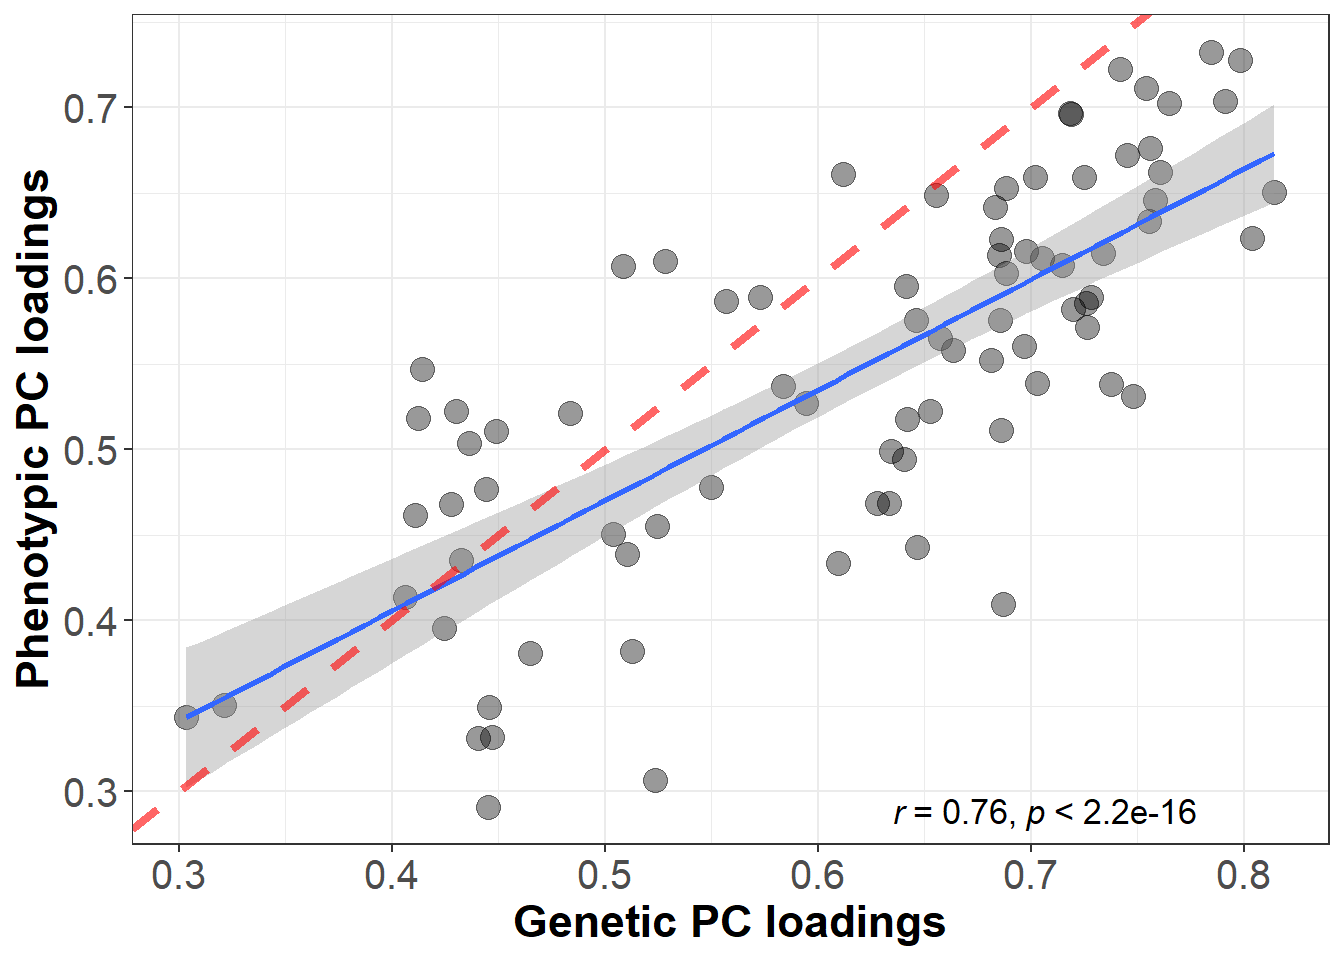
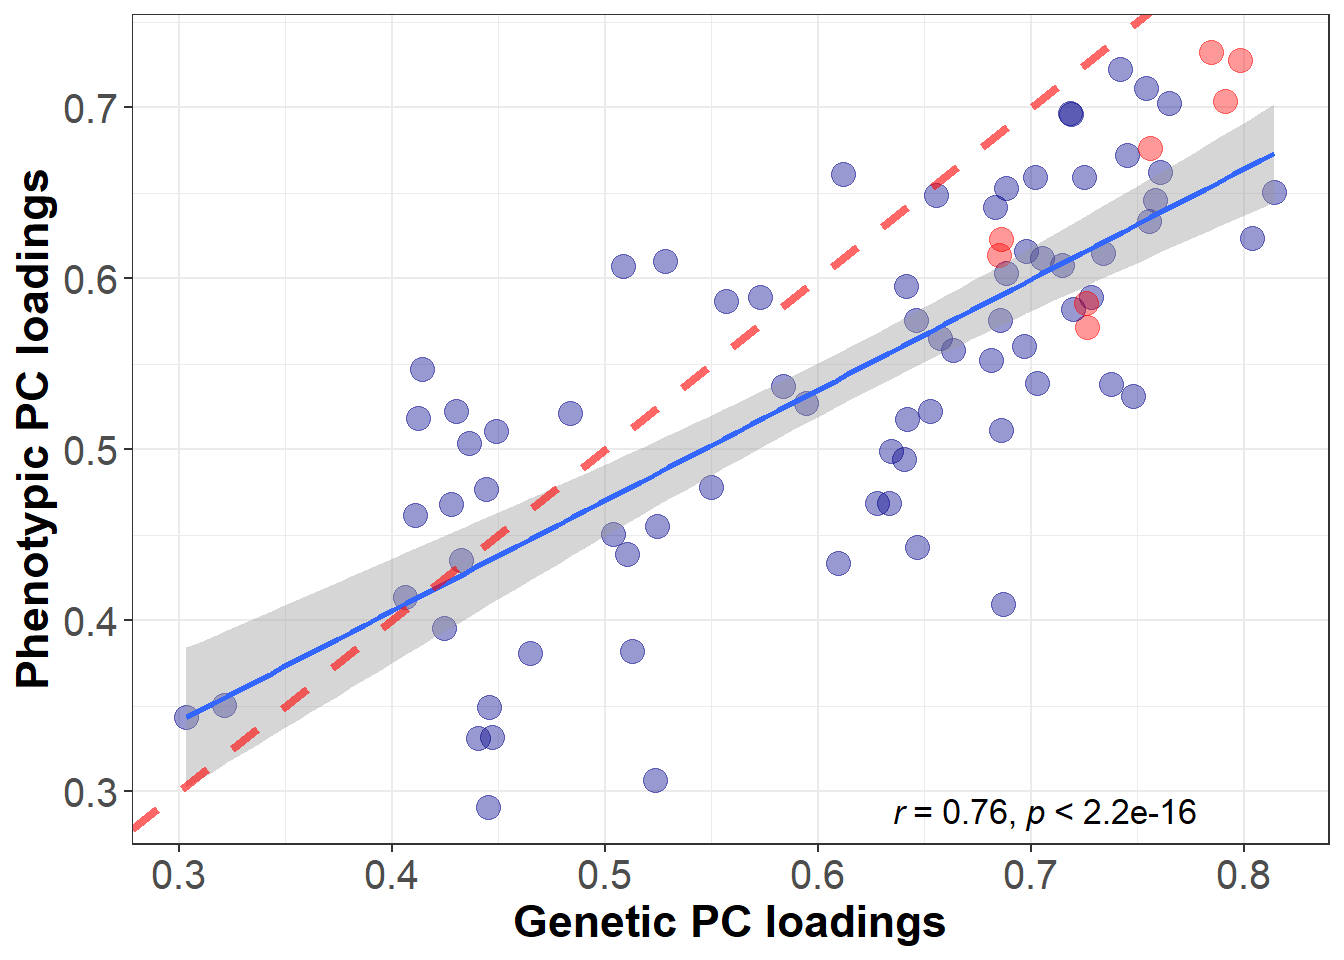
modify_plots

diff --git a/Hypothesis2and1.html b/Hypothesis2and1.html
@@ -414,7 +414,10 @@ body{
 <p><br> <br></p>
 <div id="hypothesis-2" class="section level1">
 <h1>Hypothesis 2</h1>
-<p>We hypothesise a positive association and high congruence between the two sets of factor loadings which would implicate that the same dimensions that underlie phenotypic variation in regional volumes also control the dimension of genetic sharing across these brain volumes. That is, it would suggest that phenotypic structural integrity recapitulates genetic integrity and that they are underpinned by similar general biological mechanisms. ## Association between phenotypic and genetic correlations</p>
+<p>We hypothesise a positive association and high congruence between the two sets of factor loadings which would implicate that the same dimensions that underlie phenotypic variation in regional volumes also control the dimension of genetic sharing across these brain volumes. That is, it would suggest that phenotypic structural integrity recapitulates genetic integrity and that they are underpinned by similar general biological mechanisms.</p>
+<p><br></p>
+<div id="association-between-phenotypic-and-genetic-correlations" class="section level2">
+<h2>Association between phenotypic and genetic correlations</h2>
 <p>Previously, we have calculated a phenotypic and genetic correlation matrix between 83 brain areas. Here we test whether phenotypic correlations were equivalent to genetic correlations.</p>
 <pre class="r"><code>##### correlate genetic and phenotypic correlations between brain regions
 ##### load genetic data
@@ -518,6 +521,7 @@ SE_lower&lt;-get_lower_tri(SE)
 SE_lower&lt;-reshape2::melt(SE_lower)</code></pre>
 <hr />
 <p><br></p>
+</div>
 <div id="association-between-phenotypic-and-genetic-loadings-on-the-first-pc" class="section level2">
 <h2>Association between phenotypic and genetic loadings on the first PC</h2>
 <pre class="r"><code># load phenotypic loadings
@@ -586,8 +590,23 @@ pval&lt;-signif(summary(model)$coefficient[2,4],digits =3)
 <pre class="r"><code>library(ggplot2)
 library(ggpubr)
 
+# read in area names of central executive areas
+central_areas&lt;-fread(paste0(workingd,&quot;/Scripts/my_own_gwas/2Perform_ldsc/central_executive_areas.txt&quot;),header=F,data.table=F)
+central_areas&lt;-as.vector(central_areas[,1])
+
+# create vector encoding which areas are part of central executive network
+stand_loadings$central_exec&lt;-FALSE
+
+for(i in central_areas){
+  stand_loadings$central_exec[which(stand_loadings$Regions==i)]&lt;-TRUE
+}
+
+# chose which colors to assign to central executive areas
+stand_loadings$central_col&lt;-ifelse(stand_loadings$central_exec==1,&quot;red&quot;,&quot;darkblue&quot;)
+
+
 plot_loadings&lt;-ggplot(stand_loadings, aes(x=gen_stand_loadings,y=pheno_stand_loadings))+#
-                        geom_point(size=4,alpha=0.4)+#,color=stand_loadings$central_col
+                        geom_point(size=4,alpha=0.4,color=stand_loadings$central_col)+
                         geom_smooth(method=lm, se=TRUE) #+
                         #ggtitle(&quot;Phenotypic vs. genetic PC loadings&quot;)
   
@@ -616,7 +635,7 @@ plot_loadings&lt;-ggplot(stand_loadings, aes(x=gen_stand_loadings,y=pheno_stand_
               axis.title.x = element_text(face=&quot;bold&quot;, colour=&#39;black&#39;, size=17))
 plot_loadings</code></pre>
 <p><img src="Hypothesis2and1_files/figure-html/plot_loadings-1.png" width="672" style="display: block; margin: auto;" /></p>
-<p><strong>The red line is the line of identity.</strong></p>
+<p><strong>The red line is the line of identity. PC loadings marked in red belong to regions that are part of the central executive network.</strong></p>
 <hr />
 <p><br></p>
 </div>
@@ -767,7 +786,7 @@ names(age_cor)[2]&lt;-&quot;Regions&quot;
 phenotest&lt;-merge(stand_loadings,age_cor,by=&quot;Regions&quot;)
 
 plot_age_pheno&lt;-ggplot(phenotest, aes(x=pheno_stand_loadings,y=age_cor))+#
-  geom_point(size=4,alpha=0.4)+
+  geom_point(size=4,alpha=0.4,color=phenotest$central_col)+
   geom_smooth(method=lm, se=TRUE)#,color=&quot;blue&quot;) #+
   #ggtitle(&quot;Phenotypic age correlations vs. phenotypic PC loadings&quot;)
   
@@ -795,6 +814,7 @@ plot_age_pheno&lt;-ggplot(phenotest, aes(x=pheno_stand_loadings,y=age_cor))+#
 
 plot_age_pheno</code></pre>
 <p><img src="Hypothesis2and1_files/figure-html/corr_phenotypes-1.png" width="672" style="display: block; margin: auto;" /></p>
+<p><strong>PC loadings marked in red belong to regions that are part of the central executive network.</strong></p>
 <p><br> <br></p>
 </div>
 <div id="association-between-genetic-pc-loadings-and-age-volume-correlations" class="section level2">
@@ -809,6 +829,7 @@ age_cor_estimate&lt;-round(age_correlation_result$estimate,digits = 2)
 age_cor_pval&lt;-round(age_correlation_result$p.value,digits = 3)</code></pre>
 <p>Genetic loadings are significantly correlated with age sensitivity (<em>r</em> = -0.27, <em>p-value</em> = 0.012).</p>
 <p><img src="Hypothesis2and1_files/figure-html/lot_age_cor-1.png" width="672" style="display: block; margin: auto;" /></p>
+<p><strong>PC loadings marked in red belong to regions that are part of the central executive network.</strong></p>
 <p><br> <br></p>
 <div id="plot-all-four-correlation-plots" class="section level3">
 <h3>Plot all four correlation plots</h3>
